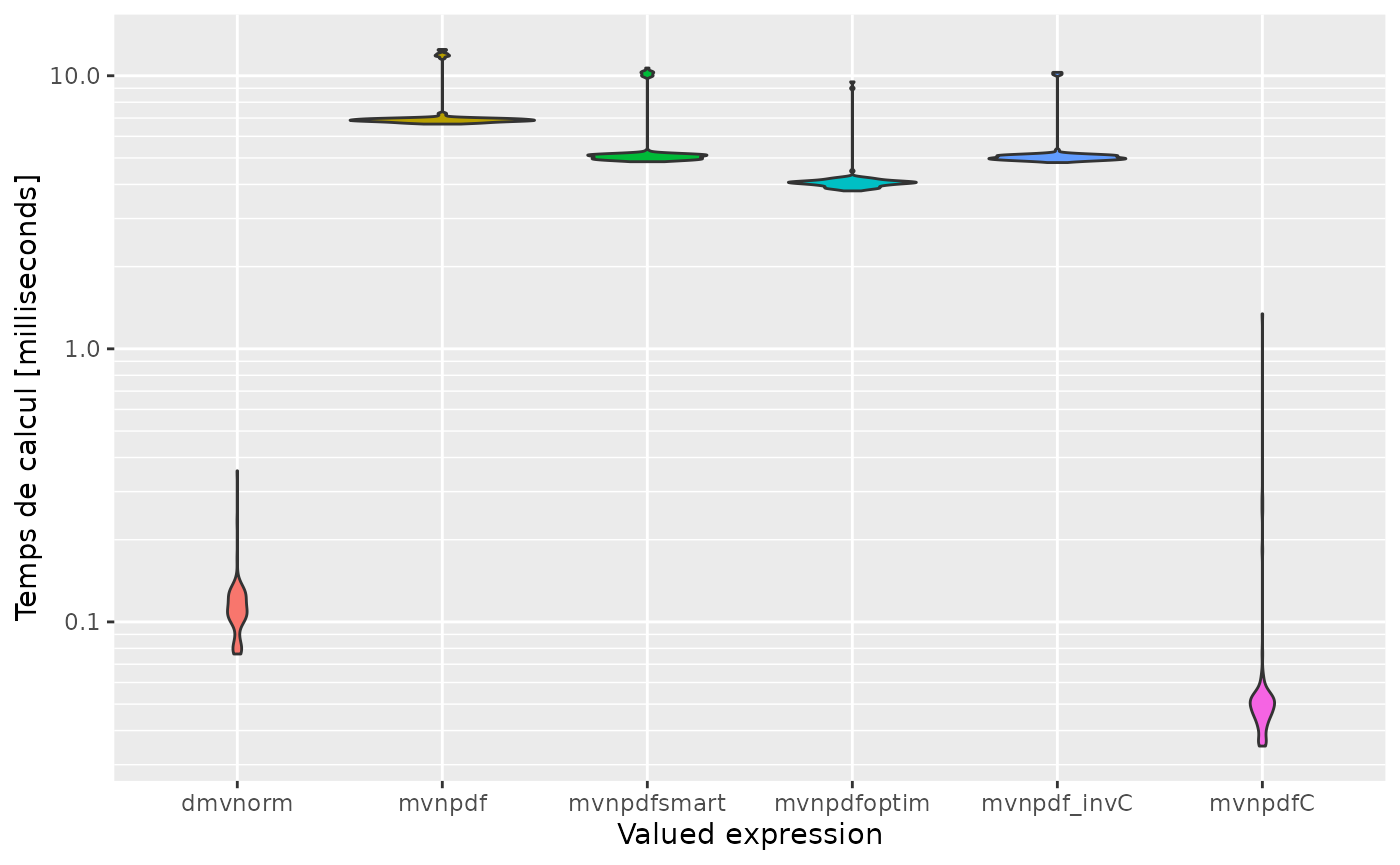
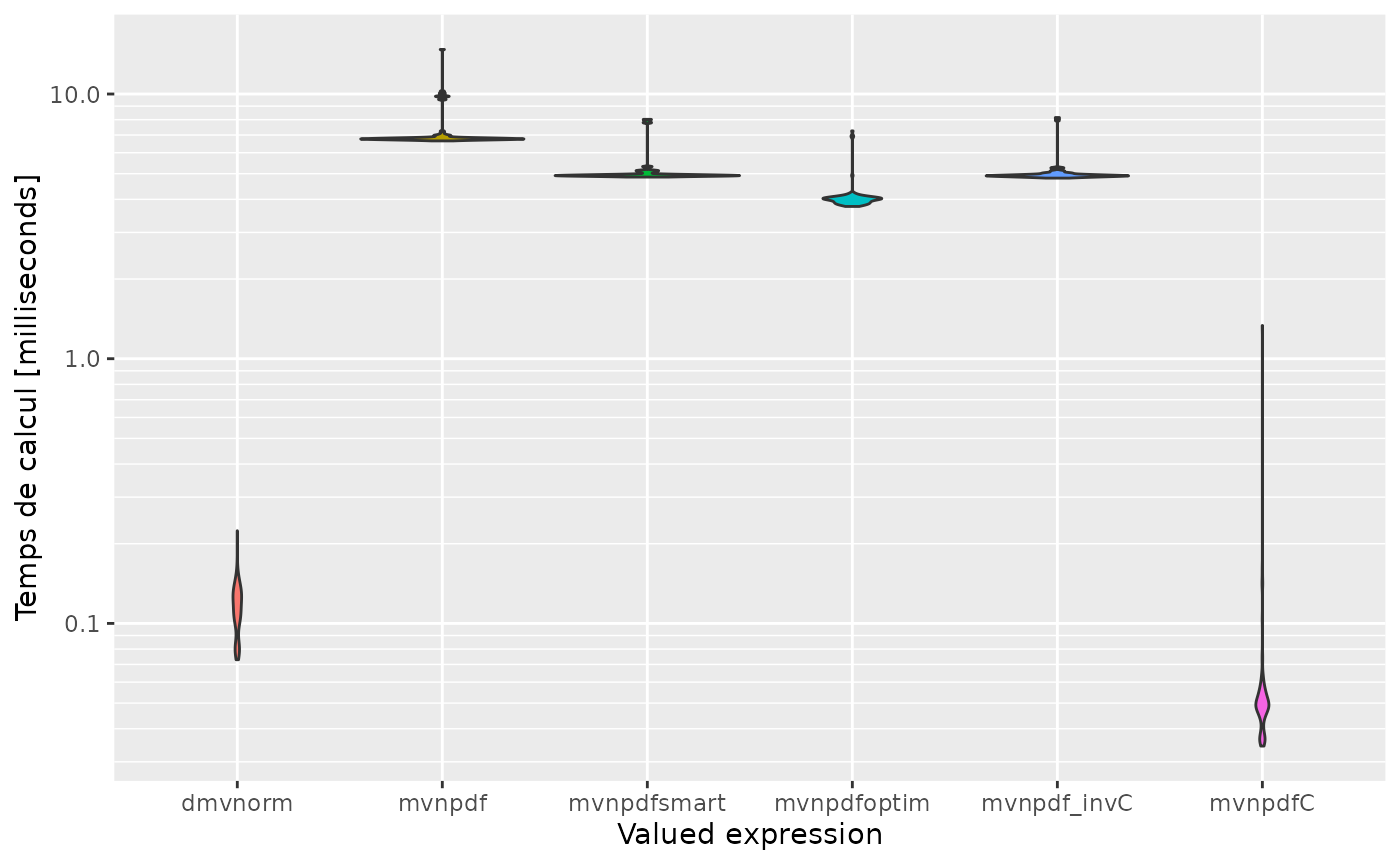
Deploying to gh-pages from @ Florian-40/mypkgr@31a83011cda670467ac550b554ccfc5742b93695 🚀

diff --git a/articles/execution_time.html b/articles/execution_time.html
@@ -79,19 +79,6 @@
     
 <div class="sourceCode" id="cb1"><pre class="downlit sourceCode r">
 <code class="sourceCode R"><span class="kw"><a href="https://rdrr.io/r/base/library.html" class="external-link">library</a></span><span class="op">(</span><span class="va"><a href="https://github.com/Florian-40/mypkgr" class="external-link">mypkgr</a></span><span class="op">)</span>
-<span class="fu">devtools</span><span class="fu">::</span><span class="fu"><a href="https://devtools.r-lib.org/reference/remote-reexports.html" class="external-link">install_github</a></span><span class="op">(</span><span class="st">"Florian-40/microbenchmark"</span>, force<span class="op">=</span><span class="cn">TRUE</span><span class="op">)</span>
-<span class="co">#&gt; Using github PAT from envvar GITHUB_PAT</span>
-<span class="co">#&gt; Downloading GitHub repo Florian-40/microbenchmark@HEAD</span>
-<span class="co">#&gt; * checking for file ‘/tmp/RtmpoPtSX3/remotes303e1de657ad/Florian-40-microbenchmark-c9b47c1/DESCRIPTION’ ... OK</span>
-<span class="co">#&gt; * preparing ‘microbenchmark’:</span>
-<span class="co">#&gt; * checking DESCRIPTION meta-information ... OK</span>
-<span class="co">#&gt; * cleaning src</span>
-<span class="co">#&gt; * running ‘cleanup’</span>
-<span class="co">#&gt; * checking for LF line-endings in source and make files and shell scripts</span>
-<span class="co">#&gt; * checking for empty or unneeded directories</span>
-<span class="co">#&gt; * building ‘microbenchmark_1.4.9.tar.gz’</span>
-<span class="co">#&gt; Installing package into '/home/runner/work/_temp/Library'</span>
-<span class="co">#&gt; (as 'lib' is unspecified)</span>
 <span class="kw"><a href="https://rdrr.io/r/base/library.html" class="external-link">library</a></span><span class="op">(</span><span class="va"><a href="https://github.com/Florian-40/microbenchmark/" class="external-link">microbenchmark</a></span><span class="op">)</span>
 <span class="kw"><a href="https://rdrr.io/r/base/library.html" class="external-link">library</a></span><span class="op">(</span><span class="va"><a href="https://ggplot2.tidyverse.org" class="external-link">ggplot2</a></span><span class="op">)</span></code></pre></div>
 <div class="section level2">
@@ -105,12 +92,12 @@
 
 <span class="va">mb</span>
 <span class="co">#&gt; Unit: microseconds</span>
-<span class="co">#&gt;                                           expr  min   lq    mean median    uq</span>
-<span class="co">#&gt;                 mvtnorm::dmvnorm(rep(1.96, 2)) 40.4 44.6 77.2158  47.90 53.90</span>
-<span class="co">#&gt;  mvnpdf(x = matrix(rep(1.96, 2)), Log = FALSE) 36.9 40.4 44.6588  43.25 47.55</span>
+<span class="co">#&gt;                                           expr  min   lq    mean median   uq</span>
+<span class="co">#&gt;                 mvtnorm::dmvnorm(rep(1.96, 2)) 40.6 42.3 68.8362   43.9 44.9</span>
+<span class="co">#&gt;  mvnpdf(x = matrix(rep(1.96, 2)), Log = FALSE) 36.5 38.3 42.4607   39.5 40.4</span>
 <span class="co">#&gt;      max neval</span>
-<span class="co">#&gt;  28094.1  1000</span>
-<span class="co">#&gt;    420.4  1000</span>
+<span class="co">#&gt;  24800.5  1000</span>
+<span class="co">#&gt;   2431.2  1000</span>
 <span class="va">expression</span><span class="op">&lt;-</span><span class="fu"><a href="https://rdrr.io/r/base/c.html" class="external-link">c</a></span><span class="op">(</span><span class="st">'dmvnorm'</span>, <span class="st">'mvnpdf'</span><span class="op">)</span>
 <span class="fu"><a href="https://ggplot2.tidyverse.org/reference/autoplot.html" class="external-link">autoplot</a></span><span class="op">(</span><span class="va">mb</span>, <span class="va">expression</span><span class="op">)</span>
 <span class="co">#&gt; Scale for 'y' is already present. Adding another scale for 'y', which will</span>
@@ -124,12 +111,12 @@
                      times<span class="op">=</span><span class="fl">100L</span><span class="op">)</span>
 <span class="va">mb</span>
 <span class="co">#&gt; Unit: microseconds</span>
-<span class="co">#&gt;                                                       expr   min    lq    mean</span>
-<span class="co">#&gt;         mvtnorm::dmvnorm(matrix(1.96, nrow = n, ncol = 2))  46.0  48.2  53.266</span>
-<span class="co">#&gt;  mvnpdf(x = matrix(1.96, nrow = 2, ncol = n), Log = FALSE) 558.2 569.1 578.344</span>
+<span class="co">#&gt;                                                       expr   min     lq    mean</span>
+<span class="co">#&gt;         mvtnorm::dmvnorm(matrix(1.96, nrow = n, ncol = 2))  46.0  48.45  54.362</span>
+<span class="co">#&gt;  mvnpdf(x = matrix(1.96, nrow = 2, ncol = n), Log = FALSE) 560.8 573.55 592.851</span>
 <span class="co">#&gt;  median     uq   max neval</span>
-<span class="co">#&gt;   51.10  54.65 112.0   100</span>
-<span class="co">#&gt;  576.55 584.85 672.3   100</span>
+<span class="co">#&gt;    52.2  57.05 143.5   100</span>
+<span class="co">#&gt;   584.2 598.00 739.2   100</span>
 <span class="va">expression</span><span class="op">&lt;-</span><span class="fu"><a href="https://rdrr.io/r/base/c.html" class="external-link">c</a></span><span class="op">(</span><span class="st">'dmvnorm'</span>, <span class="st">'mvnpdf'</span><span class="op">)</span>
 <span class="fu"><a href="https://ggplot2.tidyverse.org/reference/autoplot.html" class="external-link">autoplot</a></span><span class="op">(</span><span class="va">mb</span>, <span class="va">expression</span><span class="op">)</span>
 <span class="co">#&gt; Scale for 'y' is already present. Adding another scale for 'y', which will</span>
@@ -163,13 +150,13 @@
 <span class="va">mb</span>
 <span class="co">#&gt; Unit: microseconds</span>
 <span class="co">#&gt;                                                            expr    min      lq</span>
-<span class="co">#&gt;              mvtnorm::dmvnorm(matrix(1.96, nrow = n, ncol = 2))   72.6   79.80</span>
-<span class="co">#&gt;       mvnpdf(x = matrix(1.96, nrow = 2, ncol = n), Log = FALSE) 6681.0 6831.45</span>
-<span class="co">#&gt;  mvnpdfsmart(x = matrix(1.96, nrow = 2, ncol = n), Log = FALSE) 4861.6 4974.10</span>
+<span class="co">#&gt;              mvtnorm::dmvnorm(matrix(1.96, nrow = n, ncol = 2))   73.9   81.75</span>
+<span class="co">#&gt;       mvnpdf(x = matrix(1.96, nrow = 2, ncol = n), Log = FALSE) 6669.8 6768.90</span>
+<span class="co">#&gt;  mvnpdfsmart(x = matrix(1.96, nrow = 2, ncol = n), Log = FALSE) 4806.7 4918.45</span>
 <span class="co">#&gt;      mean  median      uq     max neval</span>
-<span class="co">#&gt;   110.750  106.25  117.70   526.3   100</span>
-<span class="co">#&gt;  7364.361 6901.40 7013.20 13641.1   100</span>
-<span class="co">#&gt;  5361.634 5053.65 5163.75 12045.1   100</span>
+<span class="co">#&gt;   111.150  106.60  122.50   383.8   100</span>
+<span class="co">#&gt;  7331.704 6852.00 6987.60 14760.7   100</span>
+<span class="co">#&gt;  5047.874 4957.05 5030.45  8421.9   100</span>
 <span class="va">expression</span><span class="op">&lt;-</span><span class="fu"><a href="https://rdrr.io/r/base/c.html" class="external-link">c</a></span><span class="op">(</span><span class="st">'dmvnorm'</span>, <span class="st">'mvnpdf'</span>, <span class="st">'mvnpdfsmart'</span><span class="op">)</span>
 <span class="fu"><a href="https://ggplot2.tidyverse.org/reference/autoplot.html" class="external-link">autoplot</a></span><span class="op">(</span><span class="va">mb</span>, <span class="va">expression</span><span class="op">)</span>
 <span class="co">#&gt; Scale for 'y' is already present. Adding another scale for 'y', which will</span>
@@ -196,15 +183,15 @@
 <span class="va">mb</span>
 <span class="co">#&gt; Unit: microseconds</span>
 <span class="co">#&gt;                                                            expr    min      lq</span>
-<span class="co">#&gt;              mvtnorm::dmvnorm(matrix(1.96, nrow = n, ncol = 2))   72.5   93.70</span>
-<span class="co">#&gt;       mvnpdf(x = matrix(1.96, nrow = 2, ncol = n), Log = FALSE) 6682.2 6768.05</span>
-<span class="co">#&gt;  mvnpdfsmart(x = matrix(1.96, nrow = 2, ncol = n), Log = FALSE) 4820.4 4926.55</span>
-<span class="co">#&gt;  mvnpdfoptim(x = matrix(1.96, nrow = 2, ncol = n), Log = FALSE) 3789.4 3918.30</span>
-<span class="co">#&gt;      mean median      uq     max neval</span>
-<span class="co">#&gt;   117.605  110.8  125.45   404.3   100</span>
-<span class="co">#&gt;  7125.344 6845.7 6969.10 12316.6   100</span>
-<span class="co">#&gt;  6166.645 4955.6 5104.65 88227.4   100</span>
-<span class="co">#&gt;  4411.420 4049.1 4159.65  9745.0   100</span>
+<span class="co">#&gt;              mvtnorm::dmvnorm(matrix(1.96, nrow = n, ncol = 2))   72.7  101.80</span>
+<span class="co">#&gt;       mvnpdf(x = matrix(1.96, nrow = 2, ncol = n), Log = FALSE) 6661.9 6757.55</span>
+<span class="co">#&gt;  mvnpdfsmart(x = matrix(1.96, nrow = 2, ncol = n), Log = FALSE) 4821.9 4901.80</span>
+<span class="co">#&gt;  mvnpdfoptim(x = matrix(1.96, nrow = 2, ncol = n), Log = FALSE) 3762.7 3871.50</span>
+<span class="co">#&gt;      mean  median      uq     max neval</span>
+<span class="co">#&gt;   117.322  113.25  127.20   353.9   100</span>
+<span class="co">#&gt;  6875.859 6784.15 6822.40 10285.0   100</span>
+<span class="co">#&gt;  5266.260 4934.25 4967.40 12787.2   100</span>
+<span class="co">#&gt;  4143.047 4013.95 4068.35  7445.0   100</span>
 <span class="va">expression</span><span class="op">&lt;-</span><span class="fu"><a href="https://rdrr.io/r/base/c.html" class="external-link">c</a></span><span class="op">(</span><span class="st">'dmvnorm'</span>, <span class="st">'mvnpdf'</span>, <span class="st">'mvnpdfsmart'</span>, <span class="st">'mvnpdfoptim'</span><span class="op">)</span>
 <span class="fu"><a href="https://ggplot2.tidyverse.org/reference/autoplot.html" class="external-link">autoplot</a></span><span class="op">(</span><span class="va">mb</span>, <span class="va">expression</span><span class="op">)</span>
 <span class="co">#&gt; Scale for 'y' is already present. Adding another scale for 'y', which will</span>
@@ -227,17 +214,17 @@
 <span class="va">mb</span>
 <span class="co">#&gt; Unit: microseconds</span>
 <span class="co">#&gt;                                                            expr    min      lq</span>
-<span class="co">#&gt;              mvtnorm::dmvnorm(matrix(1.96, nrow = n, ncol = 2))   76.0  104.20</span>
-<span class="co">#&gt;       mvnpdf(x = matrix(1.96, nrow = 2, ncol = n), Log = FALSE) 6655.7 6833.80</span>
-<span class="co">#&gt;  mvnpdfsmart(x = matrix(1.96, nrow = 2, ncol = n), Log = FALSE) 4860.1 4948.85</span>
-<span class="co">#&gt;  mvnpdfoptim(x = matrix(1.96, nrow = 2, ncol = n), Log = FALSE) 3807.4 3993.15</span>
-<span class="co">#&gt;  mvnpdf_invC(x = matrix(1.96, nrow = 2, ncol = n), Log = FALSE) 4839.6 4943.75</span>
+<span class="co">#&gt;              mvtnorm::dmvnorm(matrix(1.96, nrow = n, ncol = 2))   74.8  107.50</span>
+<span class="co">#&gt;       mvnpdf(x = matrix(1.96, nrow = 2, ncol = n), Log = FALSE) 6677.7 6789.85</span>
+<span class="co">#&gt;  mvnpdfsmart(x = matrix(1.96, nrow = 2, ncol = n), Log = FALSE) 4816.4 4921.45</span>
+<span class="co">#&gt;  mvnpdfoptim(x = matrix(1.96, nrow = 2, ncol = n), Log = FALSE) 3754.7 3876.00</span>
+<span class="co">#&gt;  mvnpdf_invC(x = matrix(1.96, nrow = 2, ncol = n), Log = FALSE) 4810.5 4916.65</span>
 <span class="co">#&gt;      mean  median      uq     max neval</span>
-<span class="co">#&gt;   124.415  116.55  133.10   331.9   100</span>
-<span class="co">#&gt;  7127.591 6910.10 6987.20 11395.1   100</span>
-<span class="co">#&gt;  5306.996 5033.90 5135.35  9636.5   100</span>
-<span class="co">#&gt;  4356.404 4102.20 4186.05  8953.0   100</span>
-<span class="co">#&gt;  5243.326 5004.15 5112.55  9705.5   100</span>
+<span class="co">#&gt;   116.721  116.55  128.70   264.3   100</span>
+<span class="co">#&gt;  6915.056 6828.15 6892.25  9636.8   100</span>
+<span class="co">#&gt;  5054.714 4970.20 5003.10  7747.4   100</span>
+<span class="co">#&gt;  4211.728 4012.40 4090.35  7679.6   100</span>
+<span class="co">#&gt;  5233.144 4961.35 5030.30 12980.8   100</span>
 <span class="va">expression</span><span class="op">&lt;-</span><span class="fu"><a href="https://rdrr.io/r/base/c.html" class="external-link">c</a></span><span class="op">(</span><span class="st">'dmvnorm'</span>, <span class="st">'mvnpdf'</span>, <span class="st">'mvnpdfsmart'</span>, <span class="st">'mvnpdfoptim'</span>, <span class="st">'mvnpdf_invC'</span><span class="op">)</span>
 <span class="fu"><a href="https://ggplot2.tidyverse.org/reference/autoplot.html" class="external-link">autoplot</a></span><span class="op">(</span><span class="va">mb</span>, <span class="va">expression</span><span class="op">)</span>
 <span class="co">#&gt; Scale for 'y' is already present. Adding another scale for 'y', which will</span>
@@ -263,13 +250,13 @@
 <span class="co">#&gt;                                        mvnpdfoptim(x = matrix(1.96, nrow = 2, ncol = n), Log = FALSE)</span>
 <span class="co">#&gt;                                        mvnpdf_invC(x = matrix(1.96, nrow = 2, ncol = n), Log = FALSE)</span>
 <span class="co">#&gt;  mvnpdfC(x = matrix(1.96, nrow = 2, ncol = n), mean = rep(0, 2),      varcovM = diag(2), Log = FALSE)</span>
-<span class="co">#&gt;     min      lq     mean  median      uq     max neval</span>
-<span class="co">#&gt;    76.3  100.05  113.359  110.90  125.50   357.5   100</span>
-<span class="co">#&gt;  6653.4 6801.55 7283.666 6881.65 6963.20 12483.6   100</span>
-<span class="co">#&gt;  4844.3 4954.10 5505.369 5068.30 5144.05 10673.4   100</span>
-<span class="co">#&gt;  3787.9 3965.45 4143.355 4051.30 4111.05  9499.1   100</span>
-<span class="co">#&gt;  4809.7 4946.60 5224.930 5015.60 5108.65 10291.5   100</span>
-<span class="co">#&gt;    35.1   43.85   66.867   49.30   53.20  1343.3   100</span>
+<span class="co">#&gt;     min      lq     mean  median     uq     max neval</span>
+<span class="co">#&gt;    72.9   99.35  114.338  115.20  130.9   223.9   100</span>
+<span class="co">#&gt;  6651.0 6737.90 7147.904 6778.85 6841.5 14736.4   100</span>
+<span class="co">#&gt;  4855.5 4901.80 5128.327 4930.05 4969.6  8023.1   100</span>
+<span class="co">#&gt;  3760.6 3890.35 4078.033 4006.85 4068.7  7257.1   100</span>
+<span class="co">#&gt;  4811.8 4887.50 5036.020 4920.15 4969.3  8150.8   100</span>
+<span class="co">#&gt;    34.4   44.85   64.849   49.55   54.0  1335.1   100</span>
 <span class="va">expression</span><span class="op">&lt;-</span><span class="fu"><a href="https://rdrr.io/r/base/c.html" class="external-link">c</a></span><span class="op">(</span><span class="st">'dmvnorm'</span>, <span class="st">'mvnpdf'</span>, <span class="st">'mvnpdfsmart'</span>, <span class="st">'mvnpdfoptim'</span>, <span class="st">'mvnpdf_invC'</span>, <span class="st">'mvnpdfC'</span><span class="op">)</span>
 <span class="fu"><a href="https://ggplot2.tidyverse.org/reference/autoplot.html" class="external-link">autoplot</a></span><span class="op">(</span><span class="va">mb</span>, <span class="va">expression</span><span class="op">)</span>
 <span class="co">#&gt; Scale for 'y' is already present. Adding another scale for 'y', which will</span>
